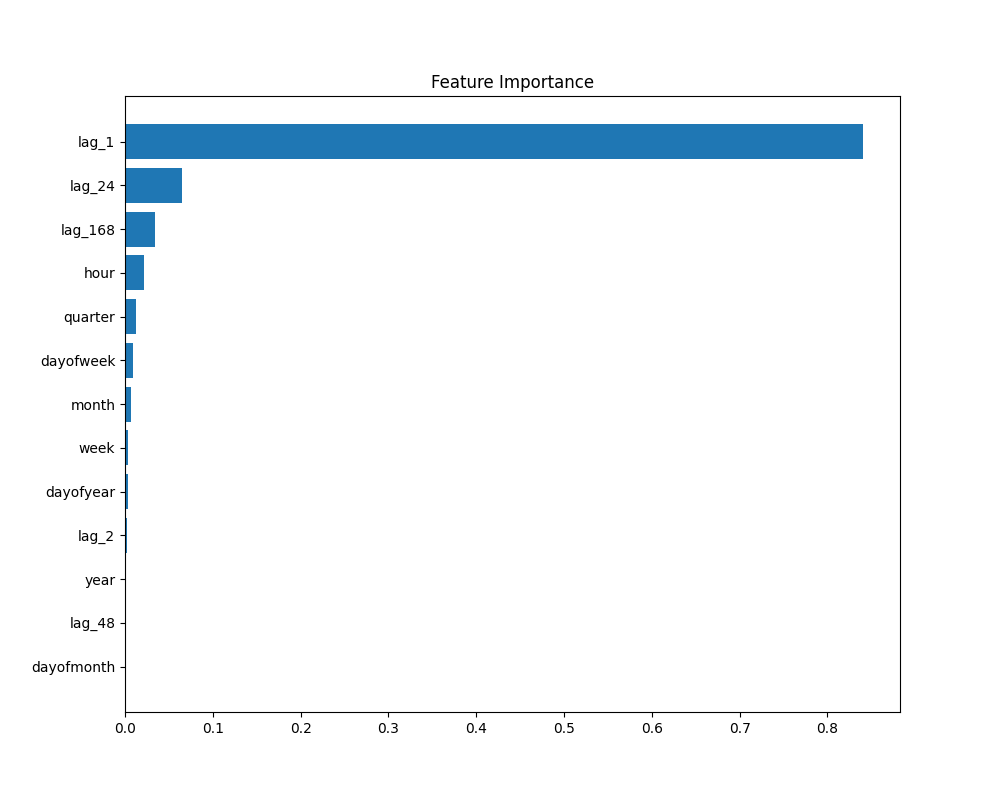
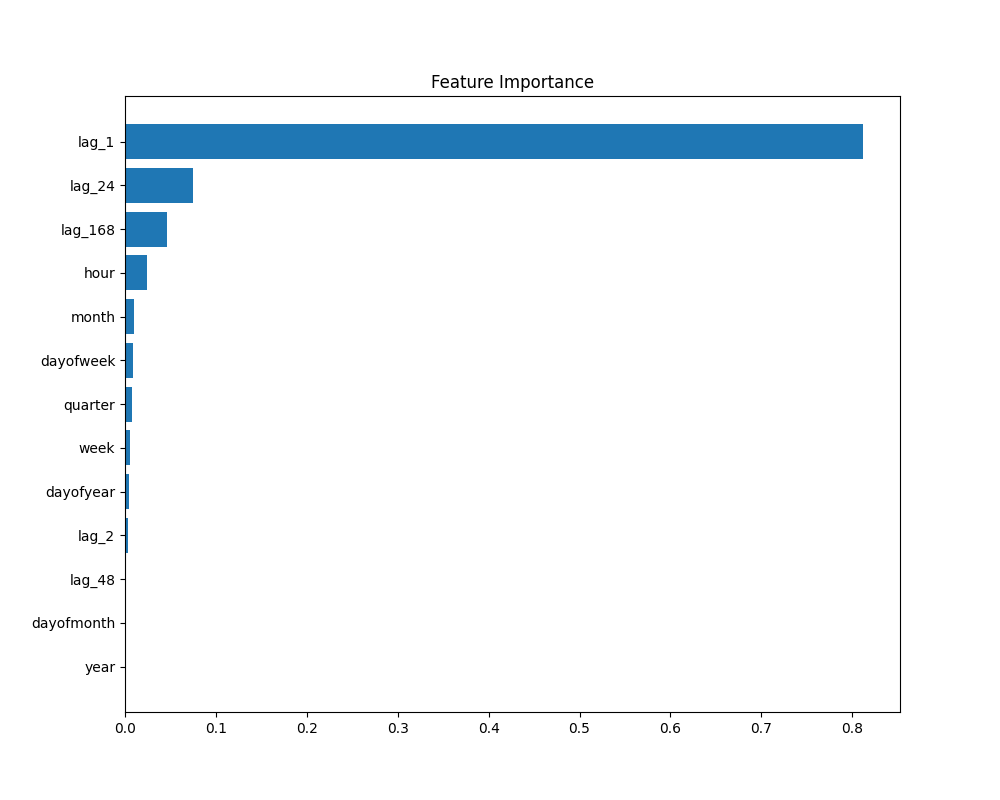
Tailwind FullStackApp

diff --git a/static/index.html b/static/index.html
@@ -1,31 +1,94 @@
 <!DOCTYPE html>
-<html>
+<html lang="en">
 <head>
-    <title>Energy Consumption Forecast</title>
+    <meta charset="UTF-8">
+    <meta name="viewport" content="width=device-width, initial-scale=1.0">
+    <title>Energy Forecast App</title>
+    <script src="https://cdn.tailwindcss.com"></script>
     <style>
-        body { font-family: Arial, sans-serif; margin: 20px; }
-        button { padding: 10px 15px; margin: 5px; cursor: pointer; }
-        #results { margin-top: 20px; }
-        #file-upload { margin-bottom: 20px; }
+        body {
+            background: linear-gradient(135deg, #f5f7fa 0%, #c3cfe2 100%);
+            font-family: 'Inter', sans-serif;
+        }
+        .card {
+            backdrop-filter: blur(10px);
+            background: rgba(255, 255, 255, 0.7);
+            border-radius: 16px;
+            box-shadow: 0 4px 30px rgba(0, 0, 0, 0.1);
+            border: 1px solid rgba(255, 255, 255, 0.3);
+        }
+        .btn {
+            transition: all 0.3s ease;
+        }
+        .btn:hover {
+            transform: translateY(-2px);
+            box-shadow: 0 10px 20px rgba(0, 0, 0, 0.1);
+        }
     </style>
 </head>
-<body>
-    <h1>Energy Consumption Forecast</h1>
-    <div id="file-upload">
-        <input type="file" id="csv-file" accept=".csv" />
-        <button onclick="uploadFile()">Upload & Train</button>
+<body class="min-h-screen p-8">
+    <div class="max-w-4xl mx-auto">
+        <div class="text-center mb-12">
+            <h1 class="text-4xl font-bold text-gray-800 mb-4">Energy Consumption Forecast 🌍⚡</h1>
+            <p class="text-lg text-gray-600">
+                Upload your CSV, click a button, and get instant forecasts—no coding required!
+            </p>
+        </div>
+
+        <div class="card p-8 mb-8">
+            <h2 class="text-2xl font-semibold text-gray-700 mb-6">1. Upload Your Data</h2>
+            <div class="flex flex-col sm:flex-row items-center gap-4">
+                <input
+                    type="file"
+                    id="csv-file"
+                    accept=".csv"
+                    class="block w-full sm:w-auto text-sm text-gray-500
+                        file:mr-4 file:py-2 file:px-4
+                        file:rounded-md file:border-0
+                        file:text-sm file:font-semibold
+                        file:bg-blue-50 file:text-blue-700
+                        hover:file:bg-blue-100"
+                >
+                <button
+                    onclick="uploadFile()"
+                    class="btn bg-gradient-to-r from-blue-500 to-indigo-600 text-white py-2 px-6 rounded-lg font-medium shadow-lg"
+                >
+                    Upload & Train
+                </button>
+            </div>
+        </div>
+
+        <div class="card p-8 mb-8">
+            <h2 class="text-2xl font-semibold text-gray-700 mb-6">2. Generate Results</h2>
+            <div class="flex flex-wrap gap-4 justify-center">
+                <button
+                    onclick="predict()"
+                    class="btn bg-gradient-to-r from-green-400 to-green-600 text-white py-2 px-6 rounded-lg font-medium shadow-lg"
+                >
+                    Predict
+                </button>
+                <button
+                    onclick="visualize()"
+                    class="btn bg-gradient-to-r from-purple-500 to-pink-600 text-white py-2 px-6 rounded-lg font-medium shadow-lg"
+                >
+                    Visualize
+                </button>
+            </div>
+        </div>
+
+        <div class="card p-8">
+            <h2 class="text-2xl font-semibold text-gray-700 mb-6">3. Results</h2>
+            <div id="results" class="min-h-[300px] bg-white rounded-lg p-6">
+                <p class="text-gray-500 text-center py-12">Your results will appear here.</p>
+            </div>
+        </div>
     </div>
-    <div>
-        <button onclick="predict()">Predict</button>
-        <button onclick="visualize()">Visualize</button>
-    </div>
-    <div id="results"></div>
 
     <script>
         async function uploadFile() {
             const fileInput = document.getElementById('csv-file');
             const file = fileInput.files[0];
-            if (!file) return alert("Please select a file!");
+            if (!file) return alert("Please select a CSV file!");
 
             const formData = new FormData();
             formData.append('file', file);
@@ -35,17 +98,34 @@
                 body: formData
             });
             const result = await response.json();
-            document.getElementById('results').innerHTML = `<p>${result.message}</p>`;
+            document.getElementById('results').innerHTML = `
+                <div class="text-center p-4 bg-green-50 rounded-lg">
+                    <p class="text-green-700 font-medium">${result.message}</p>
+                </div>
+            `;
         }
 
         async function predict() {
             const response = await fetch('/predict');
             const result = await response.json();
             document.getElementById('results').innerHTML = `
-                <h3>Prediction Results</h3>
-                <p>RMSE: ${result.rmse.toFixed(2)}</p>
-                <p>MAE: ${result.mae.toFixed(2)}</p>
-                <p>MAPE: ${(result.mape * 100).toFixed(2)}%</p>
+                <div class="bg-blue-50 rounded-lg p-6">
+                    <h3 class="text-xl font-semibold text-blue-800 mb-4">Prediction Results</h3>
+                    <div class="grid grid-cols-1 sm:grid-cols-3 gap-4 text-center">
+                        <div class="bg-white p-4 rounded-lg shadow-sm">
+                            <p class="text-gray-600">RMSE</p>
+                            <p class="text-2xl font-bold text-blue-600">${result.rmse.toFixed(2)}</p>
+                        </div>
+                        <div class="bg-white p-4 rounded-lg shadow-sm">
+                            <p class="text-gray-600">MAE</p>
+                            <p class="text-2xl font-bold text-blue-600">${result.mae.toFixed(2)}</p>
+                        </div>
+                        <div class="bg-white p-4 rounded-lg shadow-sm">
+                            <p class="text-gray-600">MAPE</p>
+                            <p class="text-2xl font-bold text-blue-600">${(result.mape * 100).toFixed(2)}%</p>
+                        </div>
+                    </div>
+                </div>
             `;
         }
 
@@ -54,11 +134,18 @@
             const result = await response.json();
             let imagesHTML = '';
             result.files.forEach(file => {
-                imagesHTML += `<img src="/download/${file}" width="800" /><br/>`;
+                imagesHTML += `
+                    <div class="mb-6">
+                        <h4 class="text-lg font-medium mb-2 text-gray-700">${file.replace('.png', '').replace('_', ' ')}</h4>
+                        <img src="/download/${file}" class="w-full rounded-lg shadow-lg" />
+                    </div>
+                `;
             });
             document.getElementById('results').innerHTML = `
-                <h3>Visualizations</h3>
-                ${imagesHTML}
+                <div class="bg-purple-50 rounded-lg p-6">
+                    <h3 class="text-xl font-semibold text-purple-800 mb-6">Visualizations</h3>
+                    ${imagesHTML}
+                </div>
             `;
         }
     </script>

diff --git a/main.py b/main.py
@@ -77,7 +77,7 @@ async def train_model():
     reg = xgb.XGBRegressor(
         base_score=0.5,
         booster='gbtree',
-        n_estimators=5000,
+        n_estimators=1000,
         early_stopping_rounds=50,
         objective='reg:squarederror',
         max_depth=3,
